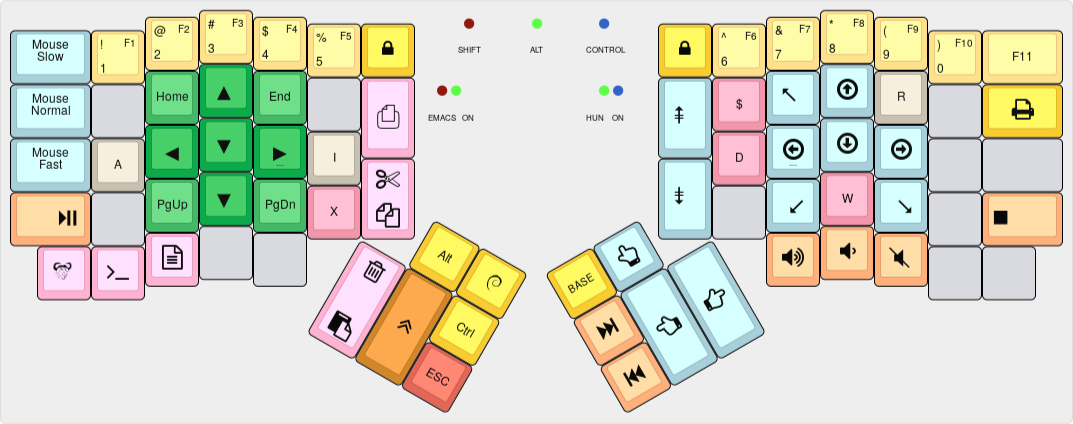
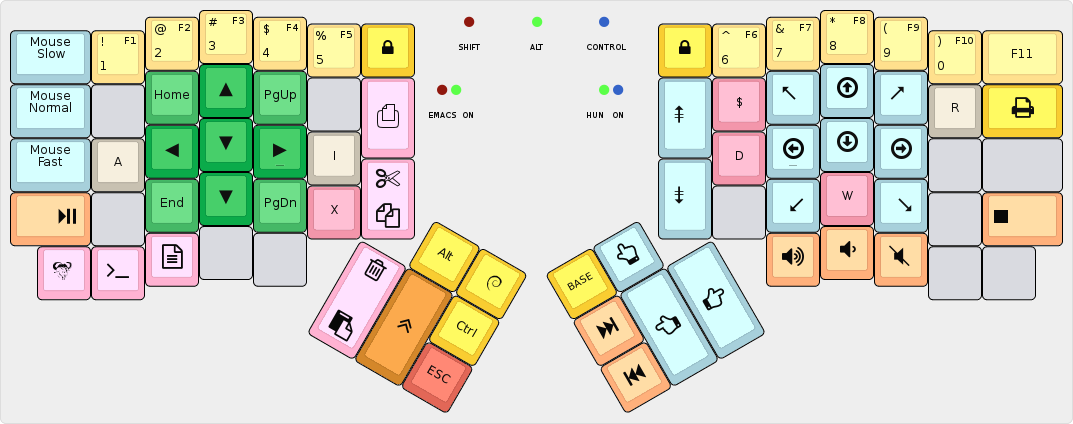
EMACS: Rearrange pgup/pgdn and home/end
Move them into a layout my fingers find easier to remember. Fixes #25.

diff --git a/keymap.c b/keymap.c
@@ -257,11 +257,11 @@ const uint16_t PROGMEM keymaps[][MATRIX_ROWS][MATRIX_COLS] = {
  * ,-----------------------------------------------------.           ,-----------------------------------------------------.
  * | MS Slow   | 1 F1 | 2 F2 | 3 F3 | 4 F4 | 5 F5 |ScrLCK|           |ScrLCK| 6 F6 | 7 F7 | 8 F8 | 9 F9 | 0 F10|    F11    |
  * |-----------+------+------+------+------+-------------|           |------+------+------+------+------+------+-----------|
- * | MS Normal |      | Home |  Up  | End  |      |Visual|           |Scroll|  $   |MsUpL | MsUp |MsUpR |  R   |PrintScreen|
+ * | MS Normal |      | Home |  Up  | PgUp |      |Visual|           |Scroll|  $   |MsUpL | MsUp |MsUpR |  R   |PrintScreen|
  * |-----------+------+------+------+------+------| Mode |           |  Up  |------+------+------+------+------+-----------|
  * | MS Fast   |APPEND| Left | Down | Right| INS  |------|           |------|  D   |MsLeft| MsDn |MsRght|      |           |
  * |-----------+------+------+------+------+------| Cut  |           |Scroll|------+------+------+------+------+-----------|
- * | Play/Pause|      | PgUp | Down | PgDn |  X   | Copy |           | Down |      |MsDnL |  W   |MsDnR |      |      Stop |
+ * | Play/Pause|      | End  | Down | PgDn |  X   | Copy |           | Down |      |MsDnL |  W   |MsDnR |      |      Stop |
  * `-----------+------+------+------+------+-------------'           `-------------+------+------+------+------+-----------'
  *      |EmacsM|TermM |OtherM|      |      |                                       |Vol Up|Vol Dn| Mute |      |      |
  *      `----------------------------------'                                       `----------------------------------'
@@ -276,9 +276,9 @@ const uint16_t PROGMEM keymaps[][MATRIX_ROWS][MATRIX_COLS] = {
 [EMACS] = KEYMAP(
 // left hand
  KC_ACL0    ,M(KF_1)     ,M(KF_2)    ,M(KF_3) ,M(KF_4) ,M(KF_5) ,LGUI(KC_L)
-,KC_ACL1    ,KC_NO       ,KC_HOME    ,KC_UP   ,KC_END  ,KC_NO   ,M(AE_VIS)
+,KC_ACL1    ,KC_NO       ,KC_HOME    ,KC_UP   ,KC_PGUP ,KC_NO   ,M(AE_VIS)
 ,KC_ACL2    ,M(AE_APPND) ,KC_LEFT    ,KC_DOWN ,KC_RIGHT,M(AE_INS)
-,KC_MPLY    ,KC_NO       ,KC_PGUP    ,KC_DOWN ,KC_PGDN ,KC_X    ,M(AE_CPYC)
+,KC_MPLY    ,KC_NO       ,KC_END     ,KC_DOWN ,KC_PGDN ,KC_X    ,M(AE_CPYC)
 ,M(AE_EMACS),M(AE_TERM)  ,M(AE_OTHER),KC_NO   ,KC_NO
                                                         ,KC_TRNS ,KC_TRNS
                                                                  ,KC_TRNS
